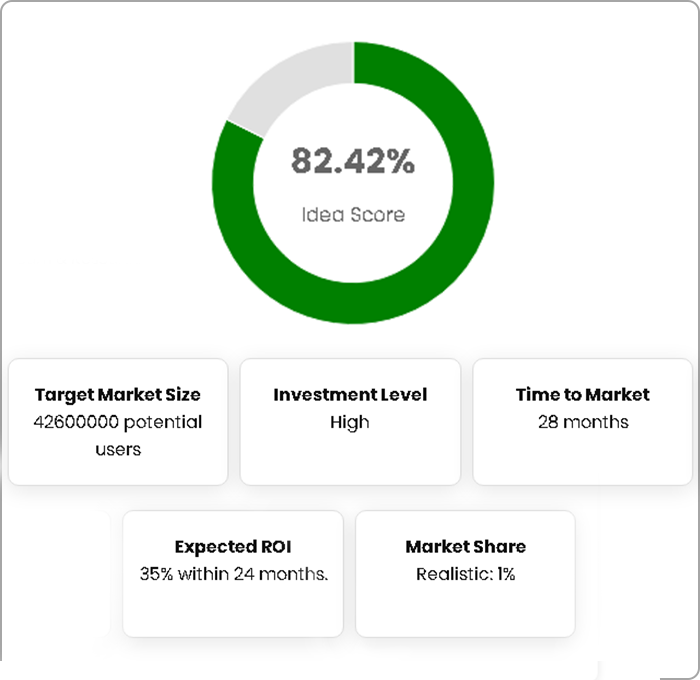
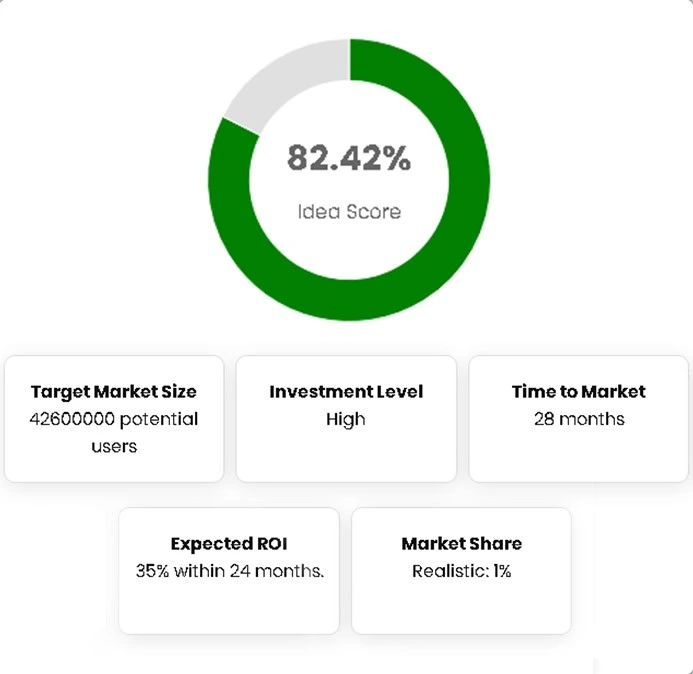
some fixes

diff --git a/src/components/pages/Home/components/landing/Hero.jsx b/src/components/pages/Home/components/landing/Hero.jsx
@@ -31,12 +31,12 @@ export const Hero = () => {
       </div>
       <div className="container hero-container2">
         <div className="hero-block2" >
-          <img src="/roadmap.jpeg" alt="Business Idea Checker" className="hero-roadmap-img" />
+          <img src="/roadmap.webp" alt="Business Idea Checker" className="hero-roadmap-img" />
           <div className="roadmap-card">
-            <img src="/ideaX_aa.jpg" alt="Roadmap" className="roadmap-card-img" />
+            <img src="/ideaX_aa.webp" alt="Roadmap" className="roadmap-card-img" />
           </div>
           <motion.img
-            src="/Startup-Business-Idea-Checker-Online-Ideax.png"
+            src="/Startup-Business-Idea-Checker-Online-Ideax.webp"
             alt="Startup Idea Checker"
             className="motion-img1"
             initial={{ x: 0, y: 0, opacity: 1 }}
@@ -48,7 +48,7 @@ export const Hero = () => {
             }}
           />
           <motion.img
-            src="/Startup-Business-Idea-Checker-Online-Ideax-2.png"
+            src="/Startup-Business-Idea-Checker-Online-Ideax-2.webp"
             alt="Business idea checker online"
             className="motion-img2"
             initial={{ x: 0, y: 0, opacity: 1 }}
